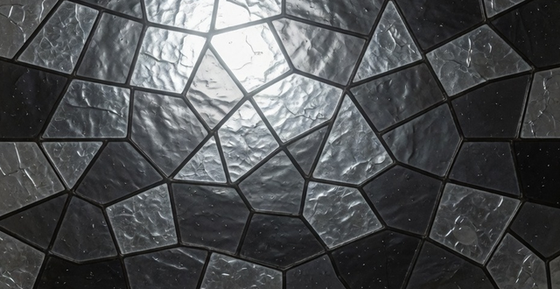
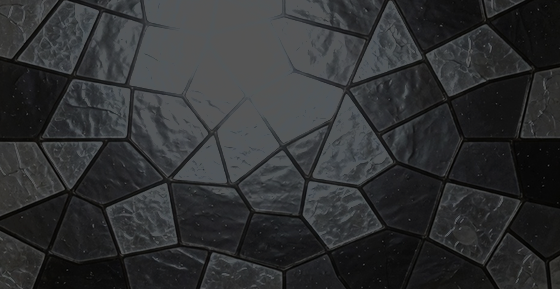
Kill the bulge in the cartouche, shrink the roundel disc, and light hover.
The moon-hotspot is flattened and the field is no longer stretched; a soot well sits under the type. Roundel numerals are optically centred in a smaller boss. Hover is a silver ring so it is not the same as the selected glow.

diff --git a/src/styles/widgets.css b/src/styles/widgets.css
@@ -399,13 +399,13 @@
   align-items: center;
   justify-content: center;
   border: none;
-  background-color: #10141a;
+  background-color: #0c1016;
   background-image:
-    linear-gradient(180deg, rgba(8, 10, 14, 0.38), rgba(8, 10, 14, 0.22) 42%, rgba(8, 10, 14, 0.42)),
+    radial-gradient(ellipse 58% 80% at 50% 50%, rgba(6, 8, 10, 0.72), transparent 74%),
     var(--kod-btn-glass-tile);
-  background-repeat: no-repeat;
-  background-size: 100% 100%;
-  background-position: center;
+  background-repeat: no-repeat, repeat-x;
+  background-size: 100% 100%, auto 100%;
+  background-position: center, center;
   color: var(--kod-silver-bright);
   font-family: var(--kod-font-body);
   font-size: 0.82rem;
@@ -474,12 +474,14 @@
   background-position: center;
   font-family: var(--kod-font-display);
   font-size: 1.15rem;
-  letter-spacing: 0.06em;
+  letter-spacing: 0.04em;
+  line-height: 1;
+  padding-top: 0.22em;
   color: #f7f4ee;
   -webkit-text-fill-color: #f7f4ee;
   text-shadow: 0 0 8px #000, 0 1px 3px #000;
   filter: none;
-  opacity: 0.82;
+  opacity: 0.72;
 }
 
 .kod-widget[data-widget='marks-ladder'] .kod-widget__btn::before,
@@ -491,6 +493,7 @@
 .kod-widget[data-widget='marks-ladder'] .kod-widget__btn:focus-visible {
   filter: none;
   opacity: 1;
+  box-shadow: 0 0 0 2px rgba(242, 239, 233, 0.7), 0 0 12px 3px rgba(242, 239, 233, 0.35);
 }
 
 .kod-widget[data-widget='marks-ladder'] .kod-widget__btn[aria-pressed='true'] {
@@ -1355,7 +1358,9 @@
   clip-path: none;
   font-family: var(--kod-font-display);
   font-size: 1.05rem;
-  letter-spacing: 0.06em;
+  letter-spacing: 0.04em;
+  line-height: 1;
+  padding-top: 0.22em;
   background-color: transparent;
   background-image: var(--kod-btn-round);
   background-repeat: no-repeat;
@@ -1366,7 +1371,7 @@
   -webkit-text-fill-color: #f7f4ee;
   text-shadow: 0 0 8px #000, 0 1px 3px #000;
   filter: none;
-  opacity: 0.82;
+  opacity: 0.72;
 }
 .kod-step-flow__track .kod-widget__btn::before,
 .kod-step-flow__track .kod-widget__btn::after {
@@ -1376,6 +1381,7 @@
 .kod-step-flow__track .kod-widget__btn:focus-visible {
   filter: none;
   opacity: 1;
+  box-shadow: 0 0 0 2px rgba(242, 239, 233, 0.7), 0 0 12px 3px rgba(242, 239, 233, 0.35);
 }
 .kod-step-flow__track .kod-widget__btn[aria-pressed='true'] {
   filter: none;
@@ -1418,13 +1424,13 @@
   height: 3.1rem;
   border: none;
   border-radius: 0;
-  background-color: #10141a;
+  background-color: #0c1016;
   background-image:
-    linear-gradient(180deg, rgba(8, 10, 14, 0.38), rgba(8, 10, 14, 0.22) 42%, rgba(8, 10, 14, 0.42)),
+    radial-gradient(ellipse 58% 80% at 50% 50%, rgba(6, 8, 10, 0.72), transparent 74%),
     var(--kod-btn-glass-tile);
-  background-repeat: no-repeat;
-  background-size: 100% 100%;
-  background-position: center;
+  background-repeat: no-repeat, repeat-x;
+  background-size: 100% 100%, auto 100%;
+  background-position: center, center;
   color: var(--kod-silver-bright);
   font-family: var(--kod-font-body);
   font-size: 0.9rem;

diff --git a/packages/design/primitives.css b/packages/design/primitives.css
@@ -37,13 +37,13 @@
   align-items: center;
   justify-content: center;
   border: none;
-  background-color: #10141a;
+  background-color: #0c1016;
   background-image:
-    linear-gradient(180deg, rgba(8, 10, 14, 0.38), rgba(8, 10, 14, 0.22) 42%, rgba(8, 10, 14, 0.42)),
+    radial-gradient(ellipse 58% 80% at 50% 50%, rgba(6, 8, 10, 0.72), transparent 74%),
     var(--kod-btn-glass-tile);
-  background-repeat: no-repeat;
-  background-size: 100% 100%;
-  background-position: center;
+  background-repeat: no-repeat, repeat-x;
+  background-size: 100% 100%, auto 100%;
+  background-position: center, center;
   color: var(--kod-silver-bright);
   font-family: var(--kod-font-body);
   font-size: 0.88rem;

diff --git a/public-root/design/primitives.css b/public-root/design/primitives.css
@@ -37,13 +37,13 @@
   align-items: center;
   justify-content: center;
   border: none;
-  background-color: #10141a;
+  background-color: #0c1016;
   background-image:
-    linear-gradient(180deg, rgba(8, 10, 14, 0.38), rgba(8, 10, 14, 0.22) 42%, rgba(8, 10, 14, 0.42)),
+    radial-gradient(ellipse 58% 80% at 50% 50%, rgba(6, 8, 10, 0.72), transparent 74%),
     var(--kod-btn-glass-tile);
-  background-repeat: no-repeat;
-  background-size: 100% 100%;
-  background-position: center;
+  background-repeat: no-repeat, repeat-x;
+  background-size: 100% 100%, auto 100%;
+  background-position: center, center;
   color: var(--kod-silver-bright);
   font-family: var(--kod-font-body);
   font-size: 0.88rem;
